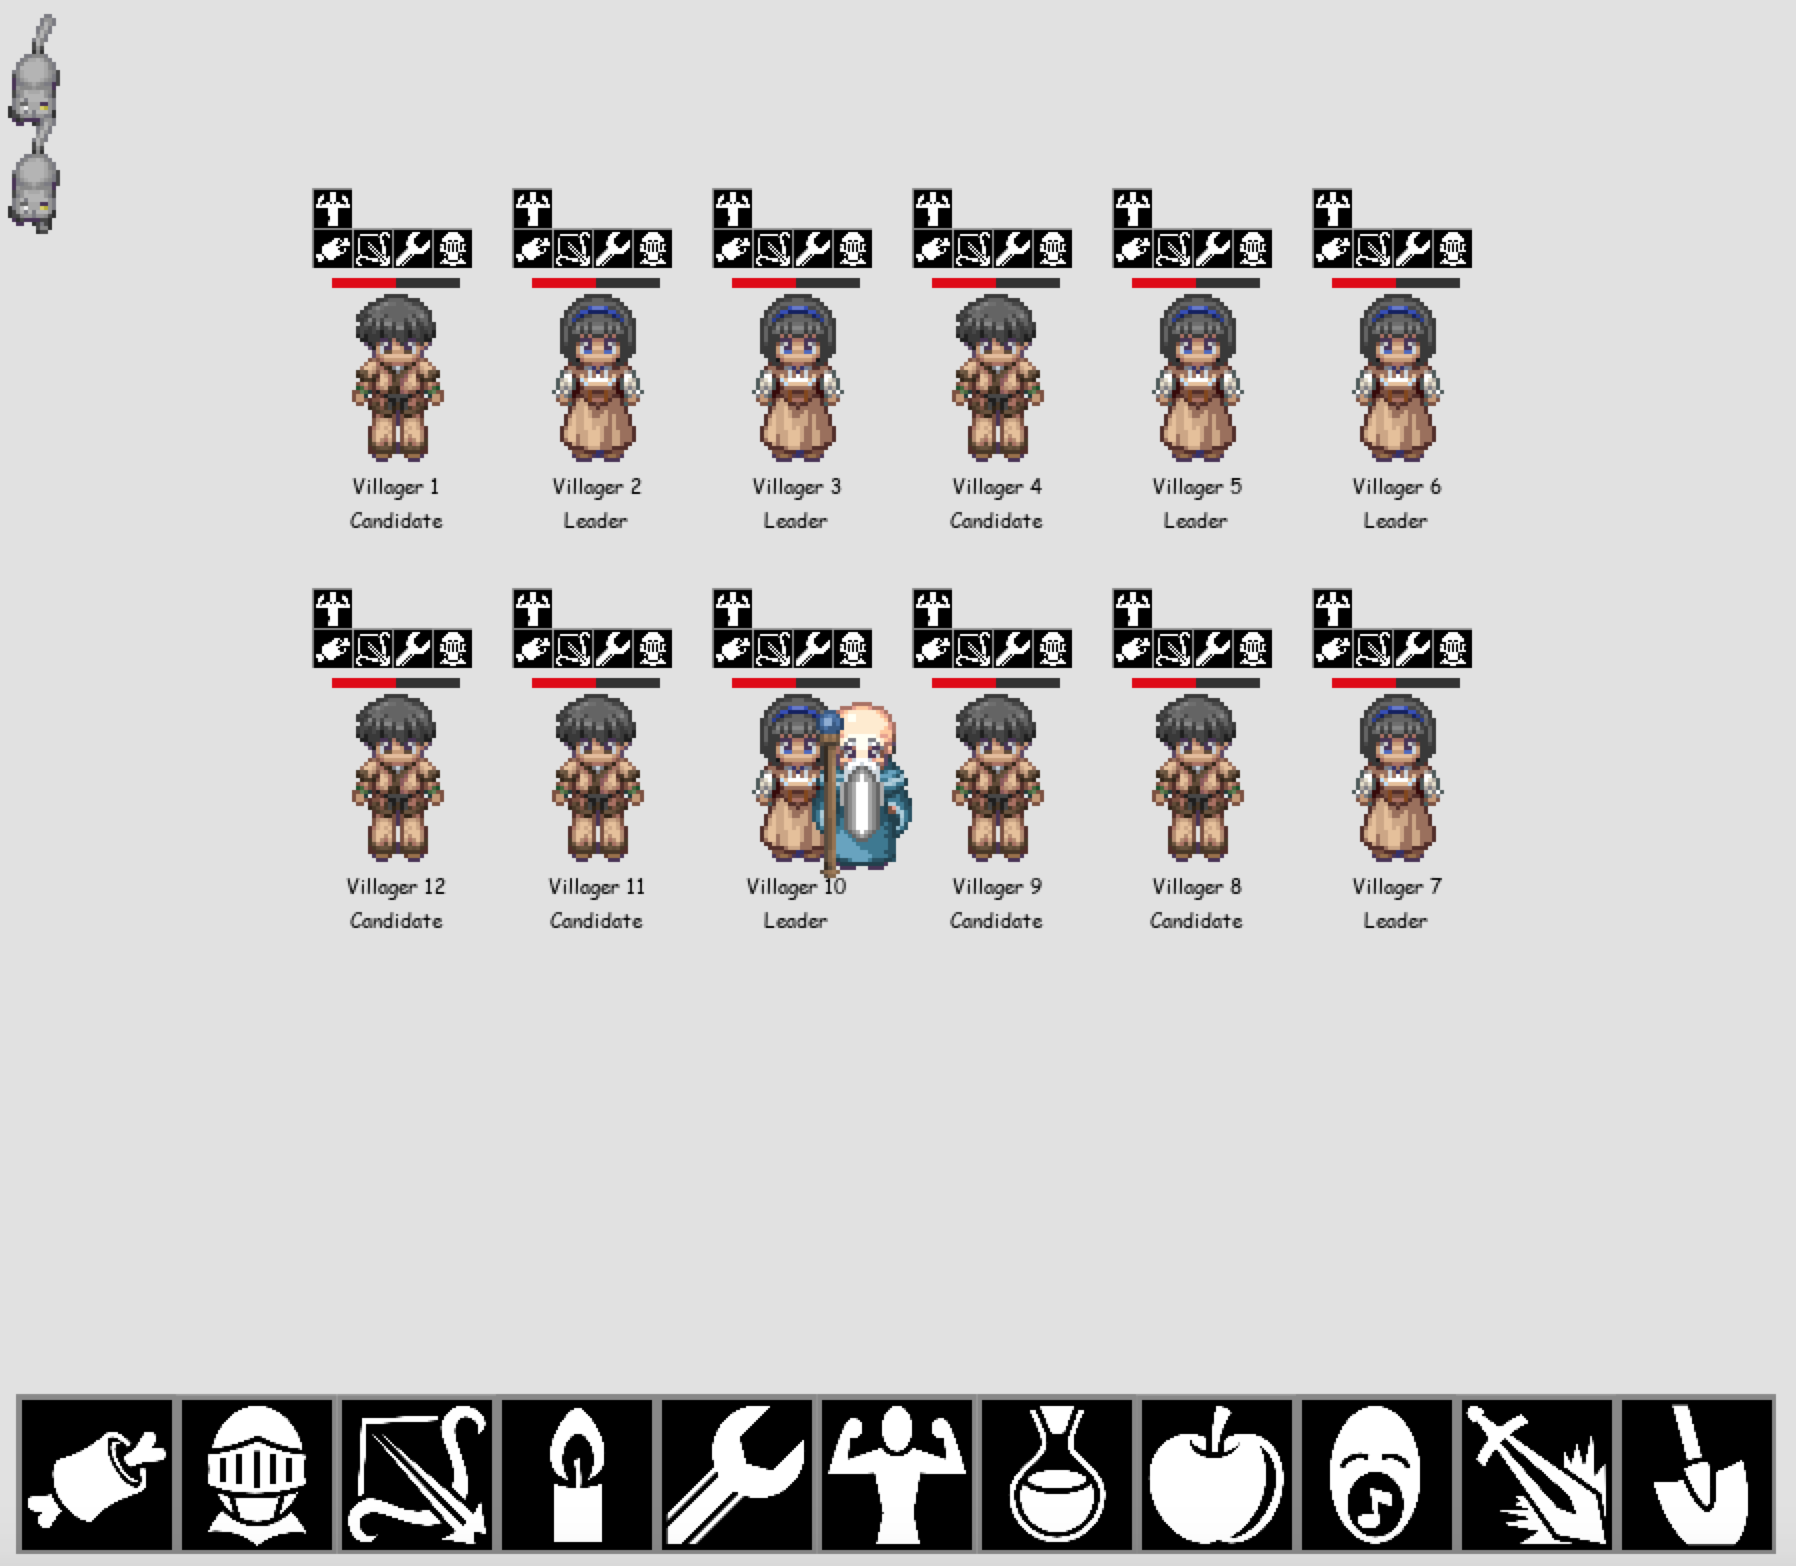
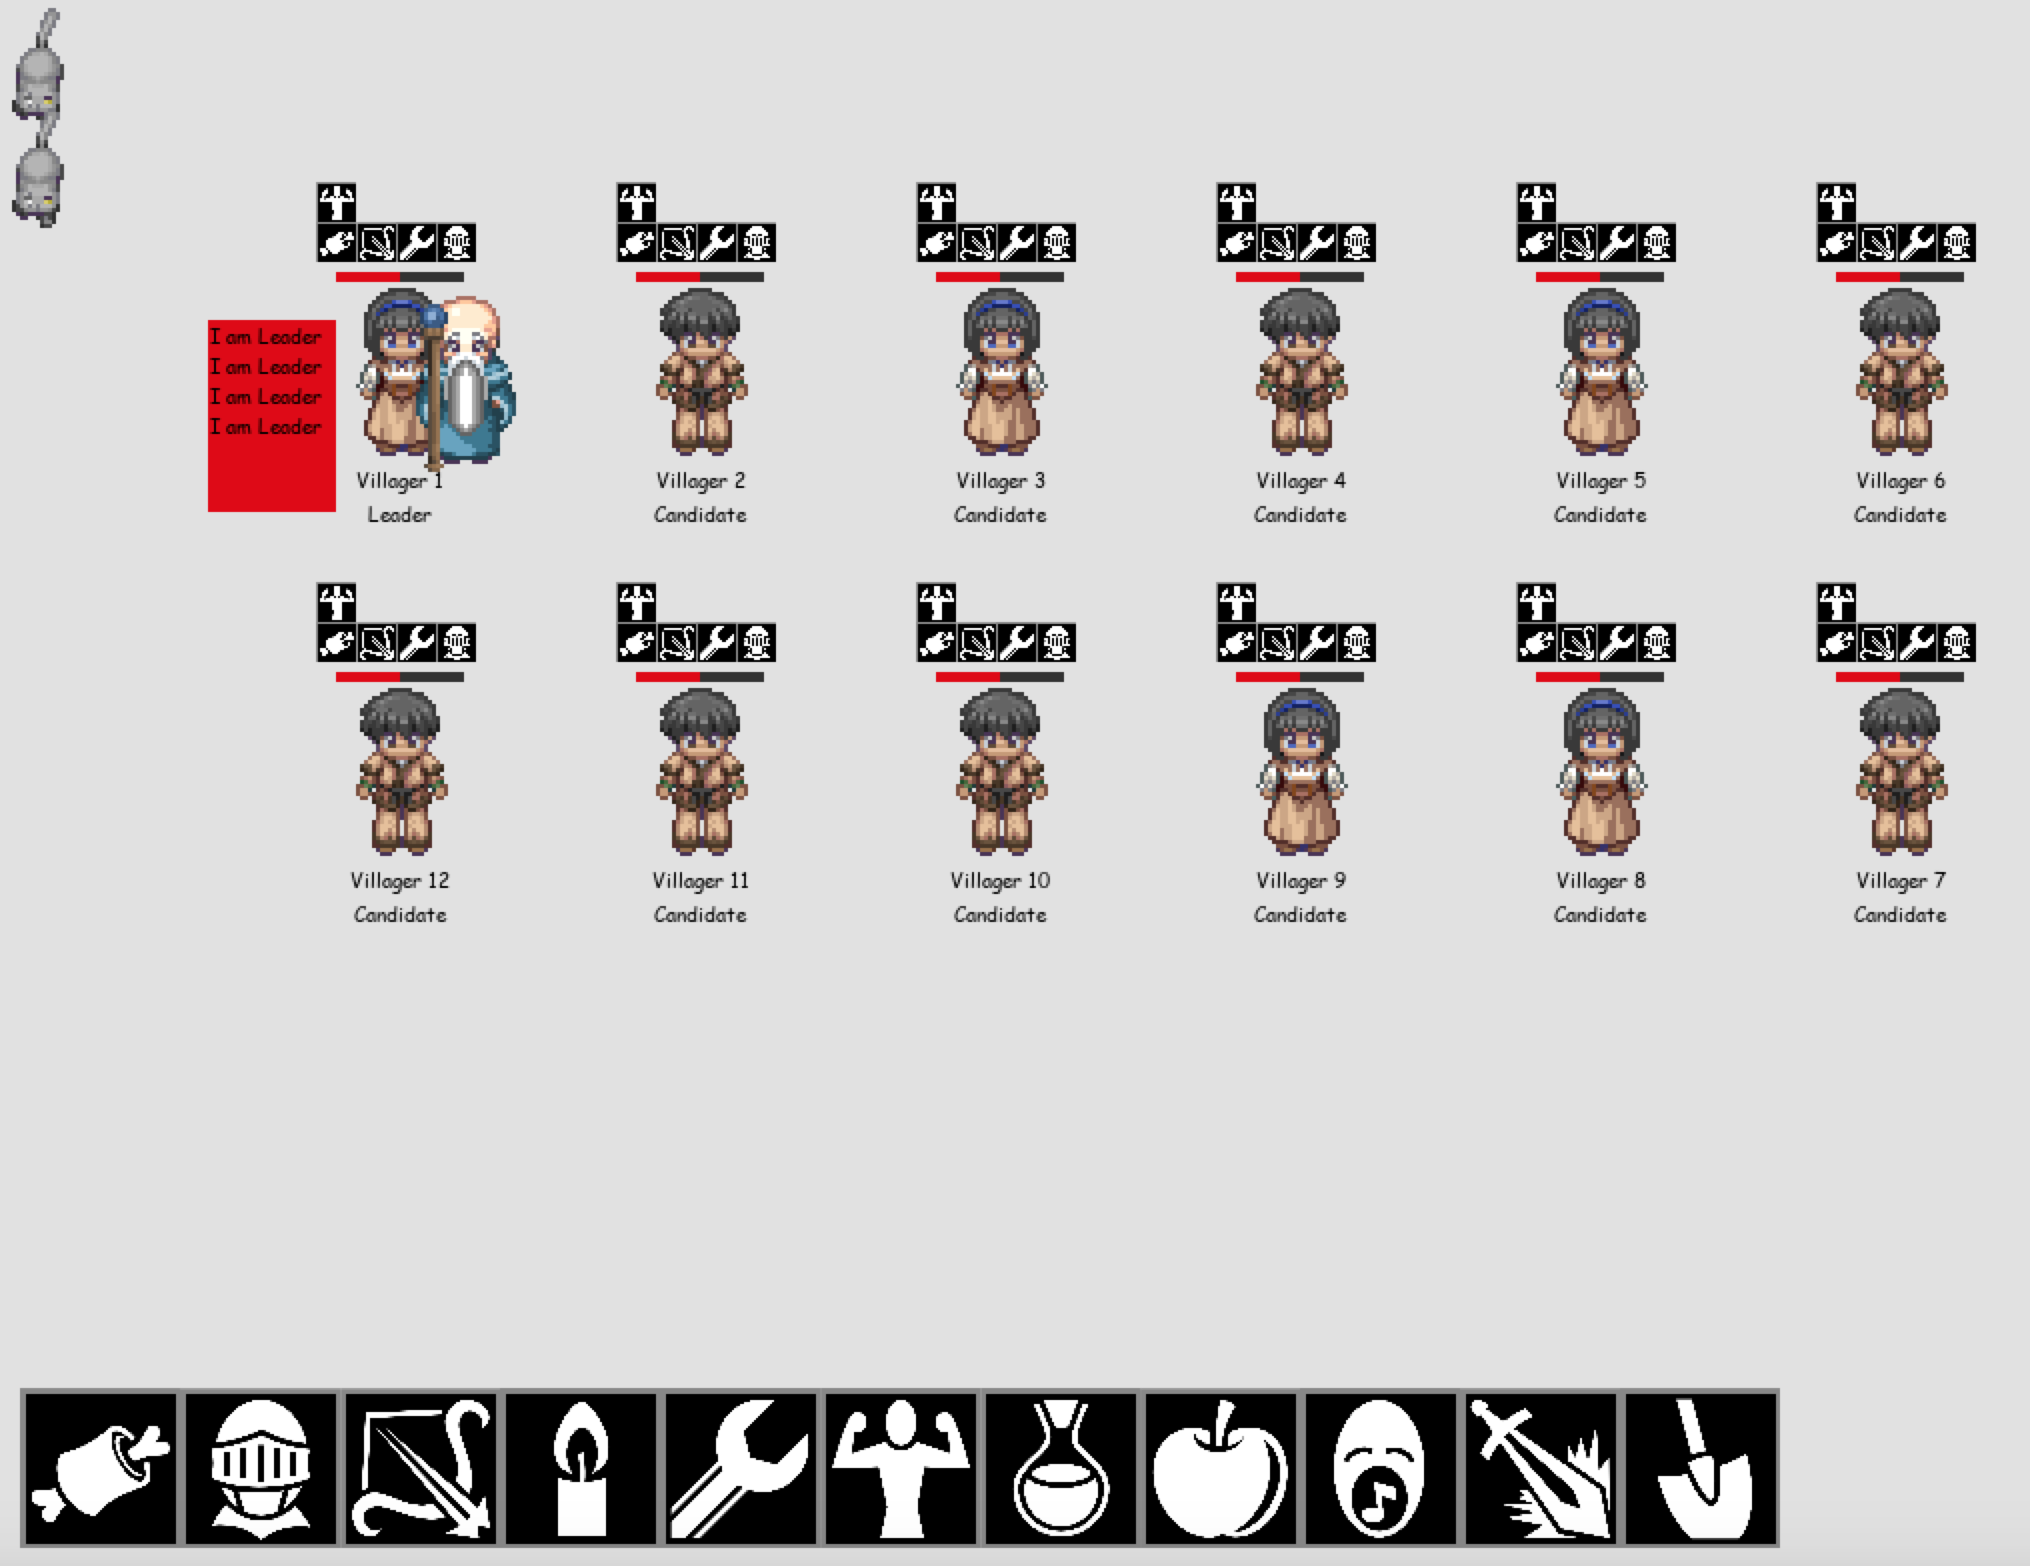
add leader shouting dialog box

diff --git a/Visualization/villager.py b/Visualization/villager.py
@@ -14,7 +14,8 @@ class Villager(Image, threading.Thread):
     leader_taken = False
 
     def __init__(self, socket_set, image, position, villager_id, font):
-
+        # render shouting
+        self.message_count = 1
         # for testing to only create one leader
         self.skills = []
         self.max_health = 2
@@ -45,11 +46,11 @@ class Villager(Image, threading.Thread):
         self.skills.append(one_skill)
 
     def set_leader_role(self, role):
-        if not Villager.leader_taken:
+        if not Villager.leader_taken and role == Role.LEADER:
             Villager.leader_taken = True
             self.role = role
         else:
-            self.role = role
+            self.role = Role.CANDIDATE
 
     def run(self):
         # self.request_parser.start()
@@ -118,5 +119,21 @@ class Villager(Image, threading.Thread):
                                                    self.y - self.height // 2),
                                                   (self.width * (self.current_health / self.max_health),
                                                    Villager.HEAL_BAR_HEIGHT)))
+
+        if self.role == Role.LEADER:
+
+            pygame.draw.rect(screen, Constant.RED, pygame.Rect((self.x - self.width * 1.5,
+                                                                self.y - self.height // 4),
+                                                               (self.width,
+                                                                self.height)))
+
+            for i in range(self.message_count):
+                message = self.font.render("I am Leader", 1, Constant.BLACK)
+                screen.blit(message, (self.x - self.width * 1.5 + 1, self.y - self.height // 4 + message.get_height() * i))
+            self.message_count += 1
+            if self.message_count > 5:
+                self.message_count = 1
+
+
         for one_skill in self.skills:
             one_skill.render(screen)

diff --git a/Visualization/constant.py b/Visualization/constant.py
@@ -2,7 +2,7 @@ import os
 class Constant:
     GAME_NAME = "Heritage"
 
-    SCREEN_WIDTH = 1000
+    SCREEN_WIDTH = 1100
     SCREEN_HEIGHT = 800
     FRAME_PER_SECOND = 60
 
@@ -23,8 +23,8 @@ class Constant:
     # MESSAGE_IMAGE = "assets/message.png"
 
     # y increase move down, x increase move right
-    VILLAGER_POSITIONS = [(200, 200), (300, 200), (400, 200), (500, 200), (600, 200), (700, 200),
-                          (700, 400), (600, 400), (500, 400), (400, 400), (300, 400), (200, 400)]
+    VILLAGER_POSITIONS = [(200, 200), (350, 200), (500, 200), (650, 200), (800, 200), (950, 200),
+                          (950, 400), (800, 400), (650, 400), (500, 400), (350, 400), (200, 400)]
     MONSTER_POSITIONS = [(20, 50), (20, 100), (20, 150)]
     SAGE_POSITION = (300, 500)
 
